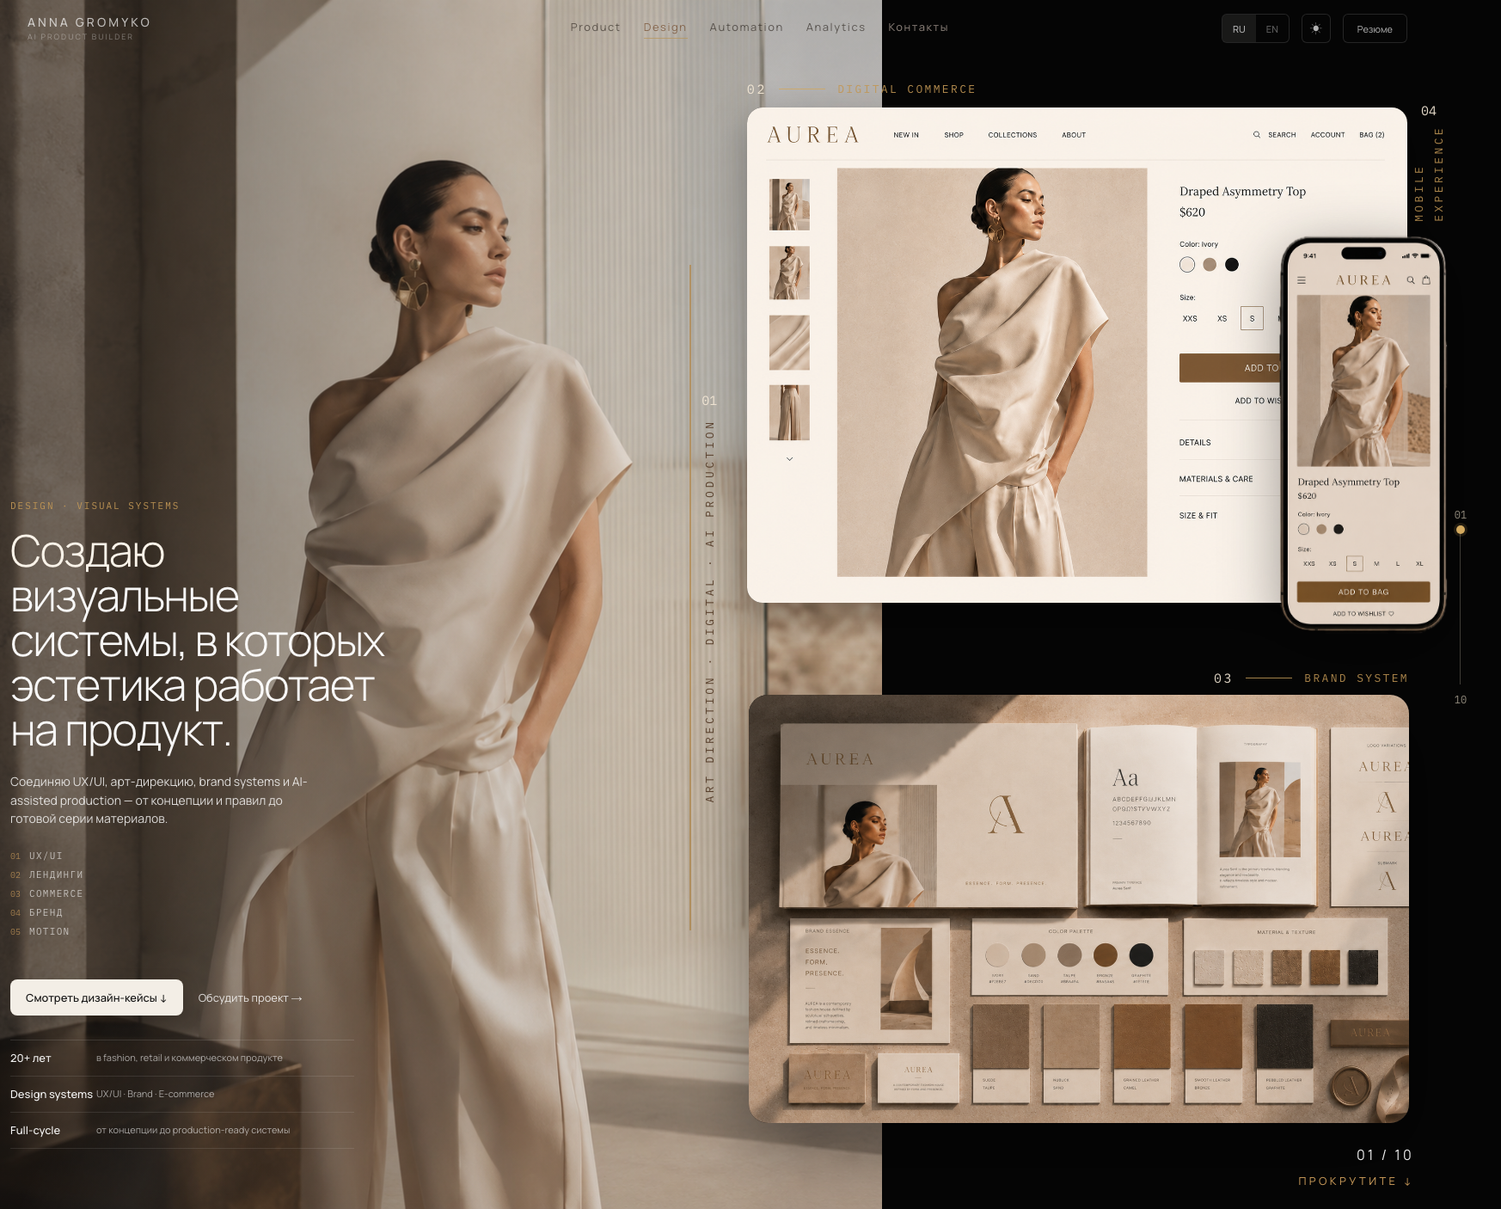
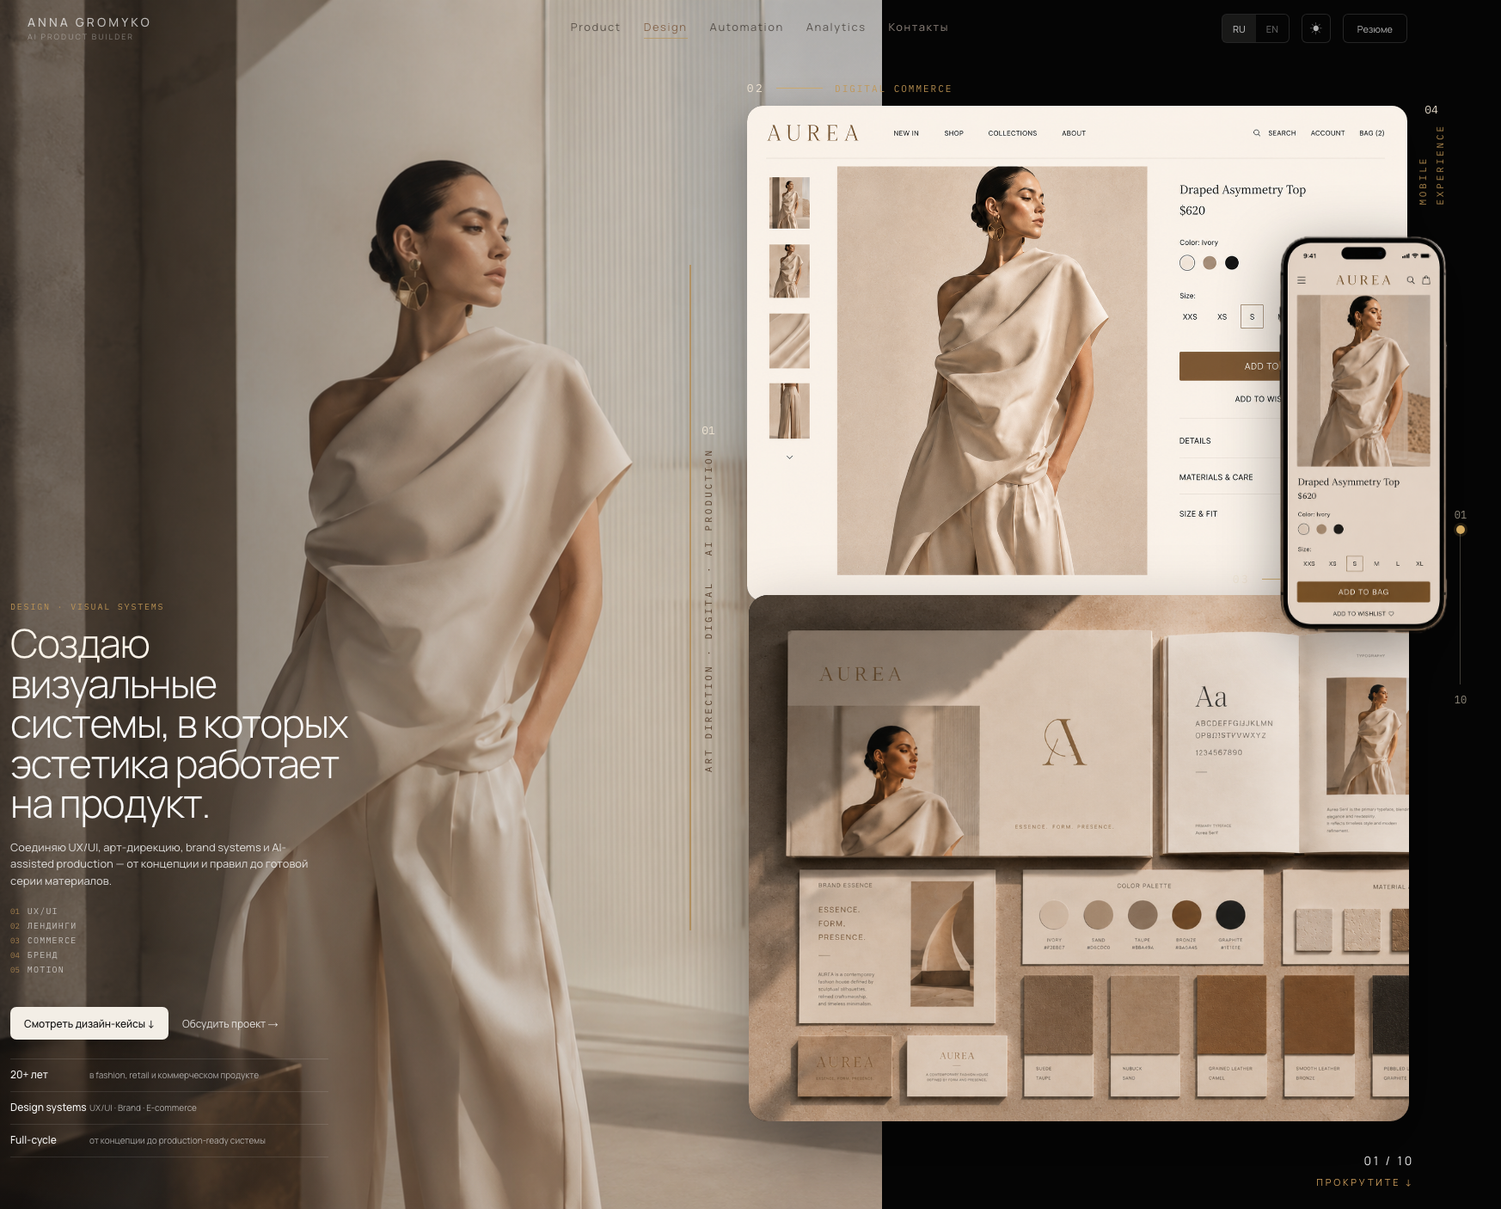
fix(design): support short-wide hero composition

diff --git a/e2e/design-approved-visual.spec.ts b/e2e/design-approved-visual.spec.ts
@@ -5,7 +5,7 @@ import pixelmatch from 'pixelmatch'
 import { PNG } from 'pngjs'
 
 const qaRoot = path.resolve(process.cwd(), 'qa')
-const baselinePath = path.join(qaRoot, 'baselines/design-approved/hero-approved-1746x1406.png')
+const baselinePath = path.join(qaRoot, 'baselines/design-approved/hero-polished-1746x1406.png')
 const resultsRoot = path.join(qaRoot, 'results/design-approved')
 const approvedResultPath = path.join(resultsRoot, 'hero-approved-1746x1406.png')
 const react1746Path = path.join(resultsRoot, 'hero-react-1746x1406.png')
@@ -89,7 +89,7 @@ function formatBox(box: Record<string, number | string | null> | null) {
   return Object.entries(box).map(([key, value]) => `${key}=${value}`).join(', ')
 }
 
-test('approved Hero matches canonical screenshot and 1440 pixel spec', async ({ page }, testInfo) => {
+test('approved Hero preserves the polished canonical screenshot and 1440 geometry', async ({ page }, testInfo) => {
   test.skip(testInfo.project.name !== 'chromium', 'Canonical capture requires desktop Chromium at deviceScaleFactor 1')
   test.setTimeout(120_000)
   fs.mkdirSync(resultsRoot, { recursive: true })
@@ -166,11 +166,11 @@ test('approved Hero matches canonical screenshot and 1440 pixel spec', async ({ 
     brandBottom: geometry.brand && geometry.stack ? Number(geometry.brand.bottom) - Number(geometry.stack.bottom) : null,
   }
 
-  const report = `# Design Approved Hero — Milestone A.1
+  const report = `# Design Approved Hero — polished canonical regression
 
 ## Canonical visual comparison — 1746×1406
 
-- Baseline: \`qa/baselines/design-approved/hero-approved-1746x1406.png\`
+- Baseline: \`qa/baselines/design-approved/hero-polished-1746x1406.png\`
 - React: \`qa/results/design-approved/hero-react-1746x1406.png\`
 - Diff: \`qa/results/design-approved/hero-diff-1746x1406.png\`
 - Device scale factor: 1
@@ -189,13 +189,13 @@ ${Object.entries(regionDiffs).map(([name, percent]) => `- ${name}: ${percent.toF
 | Hero | 1440×900; overflow hidden; #050505 | ${geometry.hero?.width}×${geometry.hero?.height}; ${geometry.hero?.overflow}; ${geometry.hero?.background} | PASS |
 | Left scene | 59vw = 849.59375px; height 900px | ${geometry.leftScene?.width}×${geometry.leftScene?.height} | PASS |
 | Hero image | object-position 62% 20% | ${geometry.heroImage?.objectPosition} | PASS |
-| Text | left 16px; bottom 70px; max-width 448px | left ${geometry.text?.left}px; bottom ${geometry.text?.bottom}px; max-width ${geometry.text?.maxWidth} | PASS |
-| H1 | 51px; line-height 52.02px; max-width 440px | ${geometry.heading?.fontSize}; ${geometry.heading?.lineHeight}; ${geometry.heading?.maxWidth}; box ${geometry.heading?.width}×${geometry.heading?.height} | PASS |
+| Text | left 16px; polished bottom rhythm; max-width 414px | left ${geometry.text?.left}px; bottom ${geometry.text?.bottom}px; max-width ${geometry.text?.maxWidth} | PASS |
+| H1 | polished responsive scale; max-width 408px | ${geometry.heading?.fontSize}; ${geometry.heading?.lineHeight}; ${geometry.heading?.maxWidth}; box ${geometry.heading?.width}×${geometry.heading?.height} | PASS |
 | Axis | left 652px; top 198px; height 495px | left ${geometry.axis?.left}px; top ${geometry.axis?.top}px; height ${geometry.axis?.height}px | PASS |
 | Right stack | right 90px; top 48px; 633.59375×810px | right ${geometry.stack?.right}px; top ${geometry.stack?.top}px; ${geometry.stack?.width}×${geometry.stack?.height}px | PASS |
 | Mobile artifact | width 382px; top 98.59375px; right -140px inside stack | width ${geometry.mobile?.width}px; top ${relative.mobileTop}px; right ${relative.mobileRight}px | PASS |
-| Commerce block | top 50px inside stack | top ${relative.commerceTop}px; box ${geometry.commerce?.width}×${geometry.commerce?.height}px | PASS |
-| Brand block | bottom 60px inside stack; height 324px | bottom ${relative.brandBottom}px; height ${geometry.brand?.height}px | PASS |
+| Commerce block | polished top anchor inside stack | top ${relative.commerceTop}px; box ${geometry.commerce?.width}×${geometry.commerce?.height}px | PASS |
+| Brand block | polished responsive anchor | bottom ${relative.brandBottom}px; height ${geometry.brand?.height}px | PASS |
 | Scroll cue | right 82px; bottom 26px | right ${geometry.scrollCue?.right}px; bottom ${geometry.scrollCue?.bottom}px | PASS |
 
 ### Raw computed values
@@ -225,13 +225,13 @@ ${Object.entries(regionDiffs).map(([name, percent]) => `- ${name}: ${percent.toF
   expect(geometry.hero).toMatchObject({ width: 1440, height: 900, overflow: 'hidden', background: 'rgb(5, 5, 5)' })
   expect(geometry.leftScene).toMatchObject({ width: 849.59375, height: 900 })
   expect(geometry.heroImage).toMatchObject({ objectPosition: '62% 20%' })
-  expect(geometry.text).toMatchObject({ left: 16, bottom: 70, maxWidth: '448px' })
-  expect(geometry.heading).toMatchObject({ fontSize: '51px', lineHeight: '52.02px', maxWidth: '440px', width: 440, height: 260.078125 })
+  expect(geometry.text).toMatchObject({ left: 16, bottom: 55.796875, maxWidth: '414px' })
+  expect(geometry.heading).toMatchObject({ fontSize: '43.92px', lineHeight: '44.3592px', maxWidth: '408px', width: 390.578125, height: 177.4375 })
   expect(geometry.axis).toMatchObject({ left: 652, top: 198, height: 495 })
   expect(geometry.stack).toMatchObject({ right: 90, top: 48, width: 633.59375, height: 810 })
   expect(geometry.mobile).toMatchObject({ width: 382 })
-  expect(relative).toEqual({ mobileTop: 98.59375, mobileRight: -140, commerceTop: 50, brandBottom: 60 })
-  expect(geometry.brand).toMatchObject({ height: 324 })
+  expect(relative).toEqual({ mobileTop: 98.59375, mobileRight: -140, commerceTop: 49.5, brandBottom: 49.5 })
+  expect(geometry.brand).toMatchObject({ height: 240.375 })
   expect(geometry.scrollCue).toMatchObject({ right: 82, bottom: 26 })
   expect(overall.percent).toBeLessThanOrEqual(1)
 })

diff --git a/e2e/design-approved-visual-polish.spec.ts b/e2e/design-approved-visual-polish.spec.ts
@@ -160,15 +160,19 @@ test('captures the approved visual-polish evidence set', async ({ page }) => {
   ] as const) await capture(page, selector, name)
 })
 
-test('hero commerce and brand panels keep a controlled responsive overlap', async ({ page }) => {
+test('hero commerce and brand panels keep a controlled responsive relationship', async ({ page }) => {
+  test.setTimeout(60_000)
   await setMode(page, 'ru', 'dark')
 
-  for (const viewport of [
+  const regressionViewports = [
     { width: 1280, height: 800 },
     { width: 1440, height: 900 },
     { width: 1512, height: 982 },
     { width: 1728, height: 1117 },
-  ]) {
+    { width: 1746, height: 1406 },
+  ]
+
+  for (const viewport of regressionViewports) {
     await page.setViewportSize(viewport)
     await page.goto('/design')
     await expect(page.locator('.design-approved-hero-commerce__card')).toBeVisible()
@@ -190,6 +194,65 @@ test('hero commerce and brand panels keep a controlled responsive overlap', asyn
     expect(geometry.panelOverlap).toBeLessThanOrEqual(14)
     expect(geometry.phoneOverCommerce).toBe(true)
     expect(geometry.overflow).toBeLessThanOrEqual(0)
+  }
+
+  for (const viewport of [
+    { width: 2048, height: 1107 },
+    { width: 1920, height: 1000 },
+    { width: 1728, height: 930 },
+    { width: 1680, height: 900 },
+    { width: 1512, height: 820 },
+  ]) {
+    await page.setViewportSize(viewport)
+    await page.goto('/design')
+    const hero = page.locator('#design-approved-hero')
+    const commerce = page.locator('.design-approved-hero-commerce__card')
+    const brand = page.locator('.design-approved-hero-brand__card')
+    const phone = page.locator('.design-approved-hero-mobile')
+    const brandLabel = page.locator('.design-approved-hero-brand .design-approved-hero-stack-label b')
+    const scrollCue = page.locator('.design-approved-hero-scroll-cue')
+    await expect(commerce).toBeVisible()
+    await expect(brand).toBeVisible()
+    await expect(phone).toBeVisible()
+
+    const [heroBox, commerceBox, brandBox, phoneBox, brandLabelBox, scrollCueBox] = await Promise.all([
+      hero.boundingBox(),
+      commerce.boundingBox(),
+      brand.boundingBox(),
+      phone.boundingBox(),
+      brandLabel.boundingBox(),
+      scrollCue.boundingBox(),
+    ])
+    expect(heroBox).not.toBeNull()
+    expect(commerceBox).not.toBeNull()
+    expect(brandBox).not.toBeNull()
+    expect(phoneBox).not.toBeNull()
+    expect(brandLabelBox).not.toBeNull()
+    expect(scrollCueBox).not.toBeNull()
+    if (!heroBox || !commerceBox || !brandBox || !phoneBox || !brandLabelBox || !scrollCueBox) continue
+
+    expect(brandBox.y).toBeGreaterThanOrEqual(commerceBox.y + commerceBox.height + 16)
+    expect(commerceBox.y).toBeGreaterThanOrEqual(heroBox.y)
+    expect(commerceBox.y + commerceBox.height).toBeLessThanOrEqual(heroBox.y + heroBox.height)
+    expect(brandBox.y).toBeGreaterThanOrEqual(heroBox.y)
+    expect(brandBox.y + brandBox.height).toBeLessThanOrEqual(heroBox.y + heroBox.height)
+    expect(phoneBox.y + phoneBox.height).toBeLessThanOrEqual(heroBox.y + heroBox.height)
+    expect(brandBox.height).toBeGreaterThanOrEqual(viewport.height * .24)
+    expect(brandLabelBox.x + brandLabelBox.width).toBeLessThanOrEqual(phoneBox.x)
+    expect(Math.min(brandBox.y + brandBox.height, scrollCueBox.y + scrollCueBox.height)
+      - Math.max(brandBox.y, scrollCueBox.y)).toBeLessThanOrEqual(0)
+    expect(await page.locator('.design-approved-page').evaluate((root) => root.scrollWidth - root.clientWidth)).toBeLessThanOrEqual(0)
+  }
+
+  for (const route of [
+    '/design',
+    '/design#main',
+    '/design#design-motion',
+    '/design?mode=qa',
+    '/design?mode=qa#design-motion',
+  ]) {
+    await page.goto(route)
+    await expect(page.locator(characterSelector)).toHaveCount(0)
   }
 
   await page.setViewportSize({ width: 390, height: 844 })

diff --git a/src/features/design-approved/DesignApprovedPolish.css b/src/features/design-approved/DesignApprovedPolish.css
@@ -162,6 +162,45 @@ html[data-page='design'] :is(
   }
 }
 
+/*
+ * Short-wide desktop: size the visual stack from the available height instead
+ * of allowing its 44vw commerce card to consume the vertical composition.
+ */
+@media (min-width: 1440px) and (max-height: 1150px) and (min-aspect-ratio: 17 / 10) {
+  .design-approved-page .design-approved-hero-stack {
+    width: min(44vw, clamp(475px, 58vh, 650px));
+    height: calc(100% - 90px);
+    box-sizing: border-box;
+    display: grid;
+    grid-template-rows: auto 28vh;
+    align-content: start;
+    gap: 18px;
+    padding-top: clamp(36px, 4.5vh, 50px);
+  }
+
+  .design-approved-page .design-approved-hero-commerce {
+    position: relative;
+    top: auto;
+    right: auto;
+    width: 100%;
+  }
+
+  .design-approved-page .design-approved-hero-brand {
+    position: relative;
+    inset: auto;
+    width: 100%;
+    height: 28vh;
+  }
+
+  .design-approved-page .design-approved-hero-brand .design-approved-hero-stack-label--end {
+    justify-content: flex-start;
+  }
+
+  .design-approved-page .design-approved-hero-mobile {
+    width: min(382px, 34vh);
+  }
+}
+
 /* Chapters 02–07 */
 .design-approved-page .design-approved-directions h2,
 .design-approved-page .design-approved-visual-system h2,

diff --git a/src/features/design-approved/DesignApprovedPage.tsx b/src/features/design-approved/DesignApprovedPage.tsx
@@ -51,7 +51,9 @@ export default function DesignApprovedPage() {
 
   useEffect(() => {
     document.documentElement.dataset.page = 'design'
+    const isDesignPath = () => location.pathname === '/design' || location.pathname.startsWith('/design/')
     const removeCharacterNodes = (root: ParentNode = document) => {
+      if (!isDesignPath()) return
       root.querySelectorAll(DESIGN_CHARACTER_SELECTOR).forEach((node) => node.remove())
     }
     removeCharacterNodes()

diff --git a/qa/results/design-approved/hero-spec-report.md b/qa/results/design-approved/hero-spec-report.md
@@ -1,25 +1,25 @@
-# Design Approved Hero — Milestone A.1
+# Design Approved Hero — polished canonical regression
 
 ## Canonical visual comparison — 1746×1406
 
-- Baseline: `qa/baselines/design-approved/hero-approved-1746x1406.png`
+- Baseline: `qa/baselines/design-approved/hero-polished-1746x1406.png`
 - React: `qa/results/design-approved/hero-react-1746x1406.png`
 - Diff: `qa/results/design-approved/hero-diff-1746x1406.png`
 - Device scale factor: 1
 - Pixelmatch threshold: 0.25 (rasterisation tolerance only; geometry is unmasked)
-- Overall difference: 0.6681%
+- Overall difference: 0.0000%
 - Native scrollbar mask: rightmost 16px only
 
 ### Region differences
 
-- header: 0.7823%
-- leftScene: 0.7120%
-- text: 1.2713%
-- axis: 1.6526%
-- commerce: 0.3475%
-- mobile: 0.5622%
-- brand: 1.1097%
-- rail: 0.4989%
+- header: 0.0000%
+- leftScene: 0.0000%
+- text: 0.0000%
+- axis: 0.0000%
+- commerce: 0.0000%
+- mobile: 0.0000%
+- brand: 0.0000%
+- rail: 0.0000%
 
 ## Pixel-spec compliance — 1440×900
 
@@ -28,13 +28,13 @@
 | Hero | 1440×900; overflow hidden; #050505 | 1440×900; hidden; rgb(5, 5, 5) | PASS |
 | Left scene | 59vw = 849.59375px; height 900px | 849.59375×900 | PASS |
 | Hero image | object-position 62% 20% | 62% 20% | PASS |
-| Text | left 16px; bottom 70px; max-width 448px | left 16px; bottom 70px; max-width 448px | PASS |
-| H1 | 51px; line-height 52.02px; max-width 440px | 51px; 52.02px; 440px; box 440×260.078125 | PASS |
+| Text | left 16px; polished bottom rhythm; max-width 414px | left 16px; bottom 55.796875px; max-width 414px | PASS |
+| H1 | polished responsive scale; max-width 408px | 43.92px; 44.3592px; 408px; box 390.578125×177.4375 | PASS |
 | Axis | left 652px; top 198px; height 495px | left 652px; top 198px; height 495px | PASS |
 | Right stack | right 90px; top 48px; 633.59375×810px | right 90px; top 48px; 633.59375×810px | PASS |
 | Mobile artifact | width 382px; top 98.59375px; right -140px inside stack | width 382px; top 98.59375px; right -140px | PASS |
-| Commerce block | top 50px inside stack | top 50px; box 633.59375×506.1875px | PASS |
-| Brand block | bottom 60px inside stack; height 324px | bottom 60px; height 324px | PASS |
+| Commerce block | polished top anchor inside stack | top 49.5px; box 633.59375×504.1875px | PASS |
+| Brand block | polished responsive anchor | bottom 49.5px; height 240.375px | PASS |
 | Scroll cue | right 82px; bottom 26px | right 82px; bottom 26px | PASS |
 
 ### Raw computed values
@@ -42,14 +42,14 @@
 - Hero root: left=0, top=0, right=0, bottom=0, width=1440, height=900, maxWidth=none, fontSize=16px, lineHeight=normal, overflow=hidden, background=rgb(5, 5, 5), objectPosition=50% 50%
 - Left scene: left=0, top=0, right=590.40625, bottom=0, width=849.59375, height=900, maxWidth=none, fontSize=16px, lineHeight=normal, overflow=hidden, background=rgba(0, 0, 0, 0), objectPosition=50% 50%
 - Hero image: left=0, top=0, right=590.40625, bottom=0, width=849.59375, height=900, maxWidth=100%, fontSize=16px, lineHeight=normal, overflow=clip, background=rgba(0, 0, 0, 0), objectPosition=62% 20%
-- Text: left=16, top=68.859375, right=984, bottom=70, width=440, height=761.140625, maxWidth=448px, fontSize=16px, lineHeight=normal, overflow=visible, background=rgba(0, 0, 0, 0), objectPosition=50% 50%
-- H1: left=16, top=107.859375, right=984, bottom=532.0625, width=440, height=260.078125, maxWidth=440px, fontSize=51px, lineHeight=52.02px, overflow=visible, background=rgba(0, 0, 0, 0), objectPosition=50% 50%
+- Text: left=16, top=245.265625, right=1033.421875, bottom=55.796875, width=390.578125, height=598.9375, maxWidth=414px, fontSize=16px, lineHeight=normal, overflow=visible, background=rgba(0, 0, 0, 0), objectPosition=50% 50%
+- H1: left=16, top=278.265625, right=1033.421875, bottom=444.296875, width=390.578125, height=177.4375, maxWidth=408px, fontSize=43.92px, lineHeight=44.3592px, overflow=visible, background=rgba(0, 0, 0, 0), objectPosition=50% 50%
 - Axis: left=652, top=198, right=786, bottom=207, width=2, height=495, maxWidth=none, fontSize=16px, lineHeight=normal, overflow=visible, background=rgba(0, 0, 0, 0), objectPosition=50% 50%
 - Right stack: left=716.40625, top=48, right=90, bottom=42, width=633.59375, height=810, maxWidth=none, fontSize=16px, lineHeight=normal, overflow=visible, background=rgba(0, 0, 0, 0), objectPosition=50% 50%
 - Mobile artifact: left=1108, top=146.59375, right=-50, bottom=74.65625, width=382, height=678.75, maxWidth=none, fontSize=16px, lineHeight=normal, overflow=visible, background=rgba(0, 0, 0, 0), objectPosition=50% 50%
-- Commerce block: left=716.40625, top=98, right=90, bottom=295.8125, width=633.59375, height=506.1875, maxWidth=none, fontSize=16px, lineHeight=normal, overflow=visible, background=rgba(0, 0, 0, 0), objectPosition=50% 50%
-- Brand block: left=716.40625, top=474, right=90, bottom=102, width=633.59375, height=324, maxWidth=none, fontSize=16px, lineHeight=normal, overflow=visible, background=rgba(0, 0, 0, 0), objectPosition=50% 50%
-- Scroll cue: left=1223.484375, top=824, right=82, bottom=26, width=134.515625, height=50, maxWidth=none, fontSize=16px, lineHeight=normal, overflow=visible, background=rgba(0, 0, 0, 0), objectPosition=50% 50%
+- Commerce block: left=716.40625, top=97.5, right=90, bottom=298.3125, width=633.59375, height=504.1875, maxWidth=none, fontSize=16px, lineHeight=normal, overflow=visible, background=rgba(0, 0, 0, 0), objectPosition=50% 50%
+- Brand block: left=716.40625, top=568.125, right=90, bottom=91.5, width=633.59375, height=240.375, maxWidth=none, fontSize=16px, lineHeight=normal, overflow=visible, background=rgba(0, 0, 0, 0), objectPosition=50% 50%
+- Scroll cue: left=1244.171875, top=832, right=82, bottom=26, width=113.828125, height=42, maxWidth=none, fontSize=16px, lineHeight=normal, overflow=visible, background=rgba(0, 0, 0, 0), objectPosition=50% 50%
 - Horizontal overflow: 0px
 - Floating character nodes: 0
 - Glass panel nodes: 0

diff --git a/qa/results/design-approved/hero-short-wide/hero-short-wide-report.md b/qa/results/design-approved/hero-short-wide/hero-short-wide-report.md
@@ -1,0 +1,109 @@
+# Canonical `/design` — short-wide Hero fix
+
+## Scope
+
+- Accepted comparison base: commit `632968d`.
+- Primary viewport: 2048×1107, device scale factor 1, browser zoom 100%, RU, dark, scroll 0.
+- Short-wide matrix: 2048×1107, 1920×1000, 1728×930, 1680×900, 1512×820.
+- Regression matrix: 1440×900, 1728×1117, 1746×1406.
+
+## Why the previous matrix missed the defect
+
+The previous desktop checks were mostly 1.54–1.60:1. At 2048×1107 the aspect ratio is 1.85:1, so the `44vw` commerce card became 901px wide and 676px tall while the stack still had only 1017px of height. The brand block was positioned from an independent vertical anchor, leaving too little readable height and producing a collision.
+
+## Root cause
+
+The previous desktop composition mixed unrelated dimensions:
+
+- stack width and commerce aspect-ratio were driven by `vw`;
+- available stack height was driven by `vh`;
+- brand used an independent absolute anchor;
+- phone was another independent absolute overlay.
+
+Increasing width without increasing height therefore enlarged commerce vertically while brand continued to rise from the constrained lower area.
+
+## Layout solution
+
+Short-wide mode is isolated behind:
+
+```css
+@media (min-width: 1440px) and (max-height: 1150px) and (min-aspect-ratio: 17 / 10)
+```
+
+Inside this mode:
+
+- the right stack becomes a two-row grid;
+- commerce and brand participate in the same layout flow with an 18px grid gap;
+- stack width is height-bounded with `min(44vw, clamp(475px, 58vh, 650px))`;
+- brand receives a stable `28vh` block;
+- phone remains absolute and scales with `min(382px, 34vh)`;
+- label 03 is aligned away from the phone overlay.
+
+Tall canonical and ordinary desktop modes retain their existing absolute composition.
+
+## 2048×1107 bounding boxes
+
+| Element | Before `632968d` fix | After short-wide fix |
+| --- | --- | --- |
+| Hero | x 0, y 0, 2048×1107 | x 0, y 0, 2048×1107 |
+| Right stack | x 1056.88, y 48, 901.12×1017 | x 1315.95, y 48, 642.05×1017 |
+| Commerce card | x 1056.88, y 127, 901.12×675.84, bottom 802.84 | x 1315.95, y 146.81, 642.05×481.54, bottom 628.35 |
+| Brand card | x 1056.88, y 790.84, 901.12×213.16, bottom 1004 | x 1315.95, y 673.35, 642.05×281.95, bottom 955.30 |
+| Phone | x 1716, y 159.02, 382×678.75 | x 1721.63, y 176.70, 376.38×668.75 |
+| Scroll cue | x 1852.18, y 1039, 113.82×42 | x 1852.18, y 1039, 113.82×42 |
+
+- Before panel gap: **−12px** (collision).
+- After panel gap: **45px**.
+- Visible brand height after: **281.95px**, or **25.47%** of Hero height.
+- Horizontal overflow after: **0px**.
+
+At 1512×820 the final panel gap is 45px, brand height is 201.59px, and the brand-to-scroll-cue clearance is 14.81px with no intersection.
+
+## Character investigation
+
+No production React renderer for a floating character exists in `src`; the only matches are defensive selectors, the `/design` removal guard, and tests. Controlled DOM inspection returned zero character nodes on:
+
+- `/design`
+- `/design#main`
+- `/design#design-motion`
+- `/design?mode=qa`
+- `/design?mode=qa#design-motion`
+
+The guard now explicitly checks `location.pathname === '/design' || location.pathname.startsWith('/design/')`, and an injected character node is removed by the existing observer. The visible right-side marker in controlled screenshots is the approved `.design-approved-chapter-rail`, not a character. Because the reported user screenshot itself was not attached, a more specific external overlay provider cannot be identified without inventing evidence.
+
+## Canonical baseline
+
+- 1746×1406 pre-short-wide vs post-short-wide Pixelmatch: **0.0000%**.
+- Device scale factor: 1.
+- Threshold: 0.25, anti-aliasing excluded.
+- The short-wide media query does not match 1746×1406.
+
+## Raw Playwright screenshots
+
+- `hero-short-wide-before-2048x1107.png` — 2048×1107 — 2,023,052 bytes.
+- `hero-short-wide-after-2048x1107.png` — 2048×1107 — 1,729,909 bytes.
+- `hero-short-wide-after-1920x1000.png` — 1920×1000 — 1,477,363 bytes.
+- `hero-short-wide-after-1728x930.png` — 1728×930 — 1,319,292 bytes.
+- `hero-1440x900-regression.png` — 1440×900 — 1,186,813 bytes.
+- `hero-1746x1406-regression.png` — 1746×1406 — 2,224,499 bytes.
+- `hero-1746x1406-pre-short-wide.png` — 1746×1406 — 2,232,061 bytes.
+
+## Tests
+
+- `npm run lint` — passed.
+- `npm run typecheck` — passed.
+- `npm test` — 28 passed.
+- `npm run build` — passed.
+- Targeted Chromium Playwright — 10 passed:
+  - canonical route and homepage regression;
+  - visual-polish matrix;
+  - short-wide geometry;
+  - route/query/hash character assertions;
+  - polished canonical visual regression.
+
+## Git and deployment
+
+- Commit: `fix(design): support short-wide hero composition` (SHA is recorded in the final handoff).
+- Push: branch status is recorded in the final handoff.
+- Merge: not performed.
+- Production deploy: not performed.
